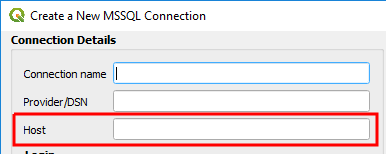
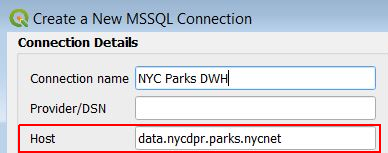
Add images for connecting to DWH
Closes #64

diff --git a/index.html b/index.html
@@ -510,7 +510,7 @@ class:center,middle
 
 ![img-center-50](images/qgis-mssql-2.png)
 
-+ Enter `Parks DWH` in the **Connection name** field (this can be whatever you want)
++ Enter `NYC Parks DWH` in the **Connection name** field (this can be whatever you want)
 + Don't enter anything in **Provider/DSN**
 + Enter `data.nycdpr.parks.nycnet` in the **Host** field
 
@@ -529,6 +529,32 @@ class:center,middle
 ![img-center-50](images/qgis-mssql-4.png)
 
 + Click **Test Connection**
+
+---
+
+# Connect to the Database
+
+![img-center-90](images/qgis-mssql-5.jpg)
+
+---
+
+# Select the Boro table
+
+### `TBL_CITYWIDEGIS_BOROUGH`
+
+![img-center-80](images/qgis-mssql-6.jpg)
+
+---
+
+# When prompted, select the CRS for the layer
+
+![img-center-60](images/qgis-mssql-7.jpg)
+
+---
+
+# What is the difference between these?
+
+![img-center-60](images/qgis-mssql-8.jpg)
 
 ---
 
